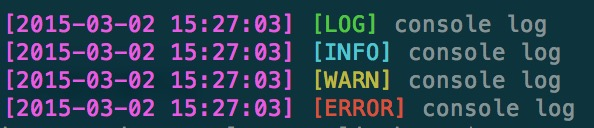
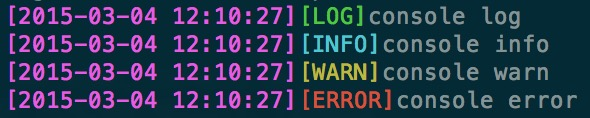
Support first argument replace
eg. console.log('hello %s', 'world');

diff --git a/index.js b/index.js
@@ -28,8 +28,18 @@ module.exports = function consoleWrap (timeFormat) {
     var fn = console[k];
     console[k] = function () {
       var args = slice.call(arguments);
-      args.unshift(chalk[wrapMap[k]]('['+toUpperCase.call(k)+']'));
-      args.unshift(chalk.magenta('['+moment().format(format)+']'));
+      var type = chalk[wrapMap[k]]('['+toUpperCase.call(k)+']');
+      var time = chalk.magenta('['+moment().format(format)+']');
+
+      // refer to https://github.com/joyent/node/blob/master/lib/console.js
+      if (k === 'log' || k === 'info') {
+        process.stdout.write(time);
+        process.stdout.write(type);
+      } else {
+        process.stderr.write(time);
+        process.stderr.write(type);
+      }
+
       fn.apply(this, args);
     };
   });

diff --git a/test.js b/test.js
@@ -1,6 +1,6 @@
 require('./index.js')();
 
-console.log('console log');
-console.info('console log');
-console.warn('console log');
-console.error('console log');
+console.log('console %s', 'log');
+console.info('console %s', 'info');
+console.warn('console %s', 'warn');
+console.error('console %s', 'error');

diff --git a/README.md b/README.md
@@ -14,6 +14,11 @@ npm install console-wrap
 ```
 require('console-wrap')();
 
+console.log('console %s', 'log');
+console.info('console %s', 'info');
+console.warn('console %s', 'warn');
+console.error('console %s', 'error');
+
 ```
 ![screenshot](https://github.com/booxood/node-console-wrap/raw/master/screenshot.png)
 
